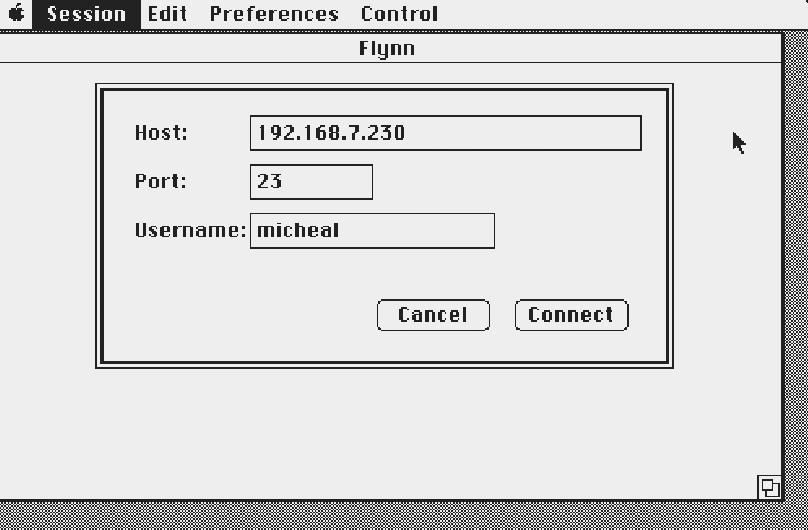
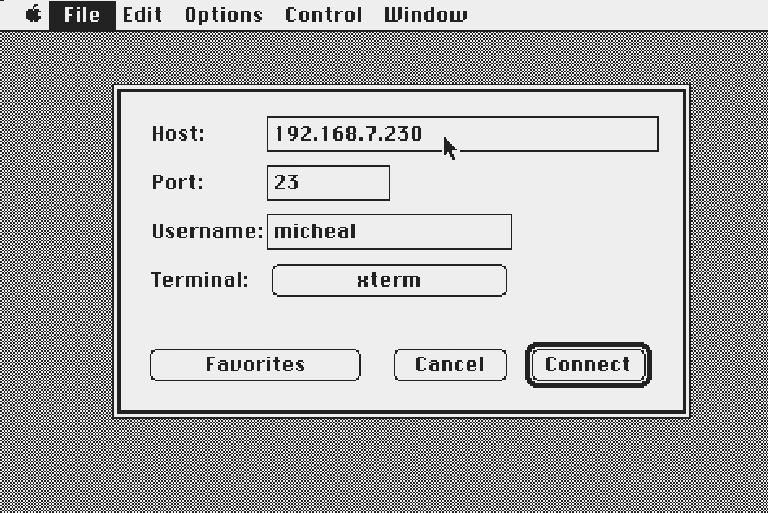
Update screenshots for v1.9.4 UI changes
Replace all screenshots with current Mac desktop crops showing updated
menu bar (File, Edit, Options, Control, Window). Rename flynn-claudecode
to flynn-bbs-multiwindow showing ANSI-BBS and terminal multi-window.

diff --git a/README.md b/README.md
@@ -12,8 +12,8 @@ This project was 100% vibe coded using [Claude Code](https://docs.anthropic.com/
 |:---:|:---:|
 | ![Flynn telnet session with neofetch](docs/screenshots/flynn-neofetch.png) | ![Flynn running tmux with split panes](docs/screenshots/flynn-tmux.png) |
 | **Telnet Session** | **tmux Split Panes** |
-| ![Flynn connect dialog](docs/screenshots/flynn-connect.png) | ![Claude Code running inside Flynn](docs/screenshots/flynn-claudecode.png) |
-| **Connect Dialog** | **Claude Code via Flynn** |
+| ![Flynn connect dialog](docs/screenshots/flynn-connect.png) | ![Flynn BBS and terminal multi-window](docs/screenshots/flynn-bbs-multiwindow.png) |
+| **Connect Dialog** | **ANSI-BBS + Terminal Multi-Window** |
 
 ---
 
